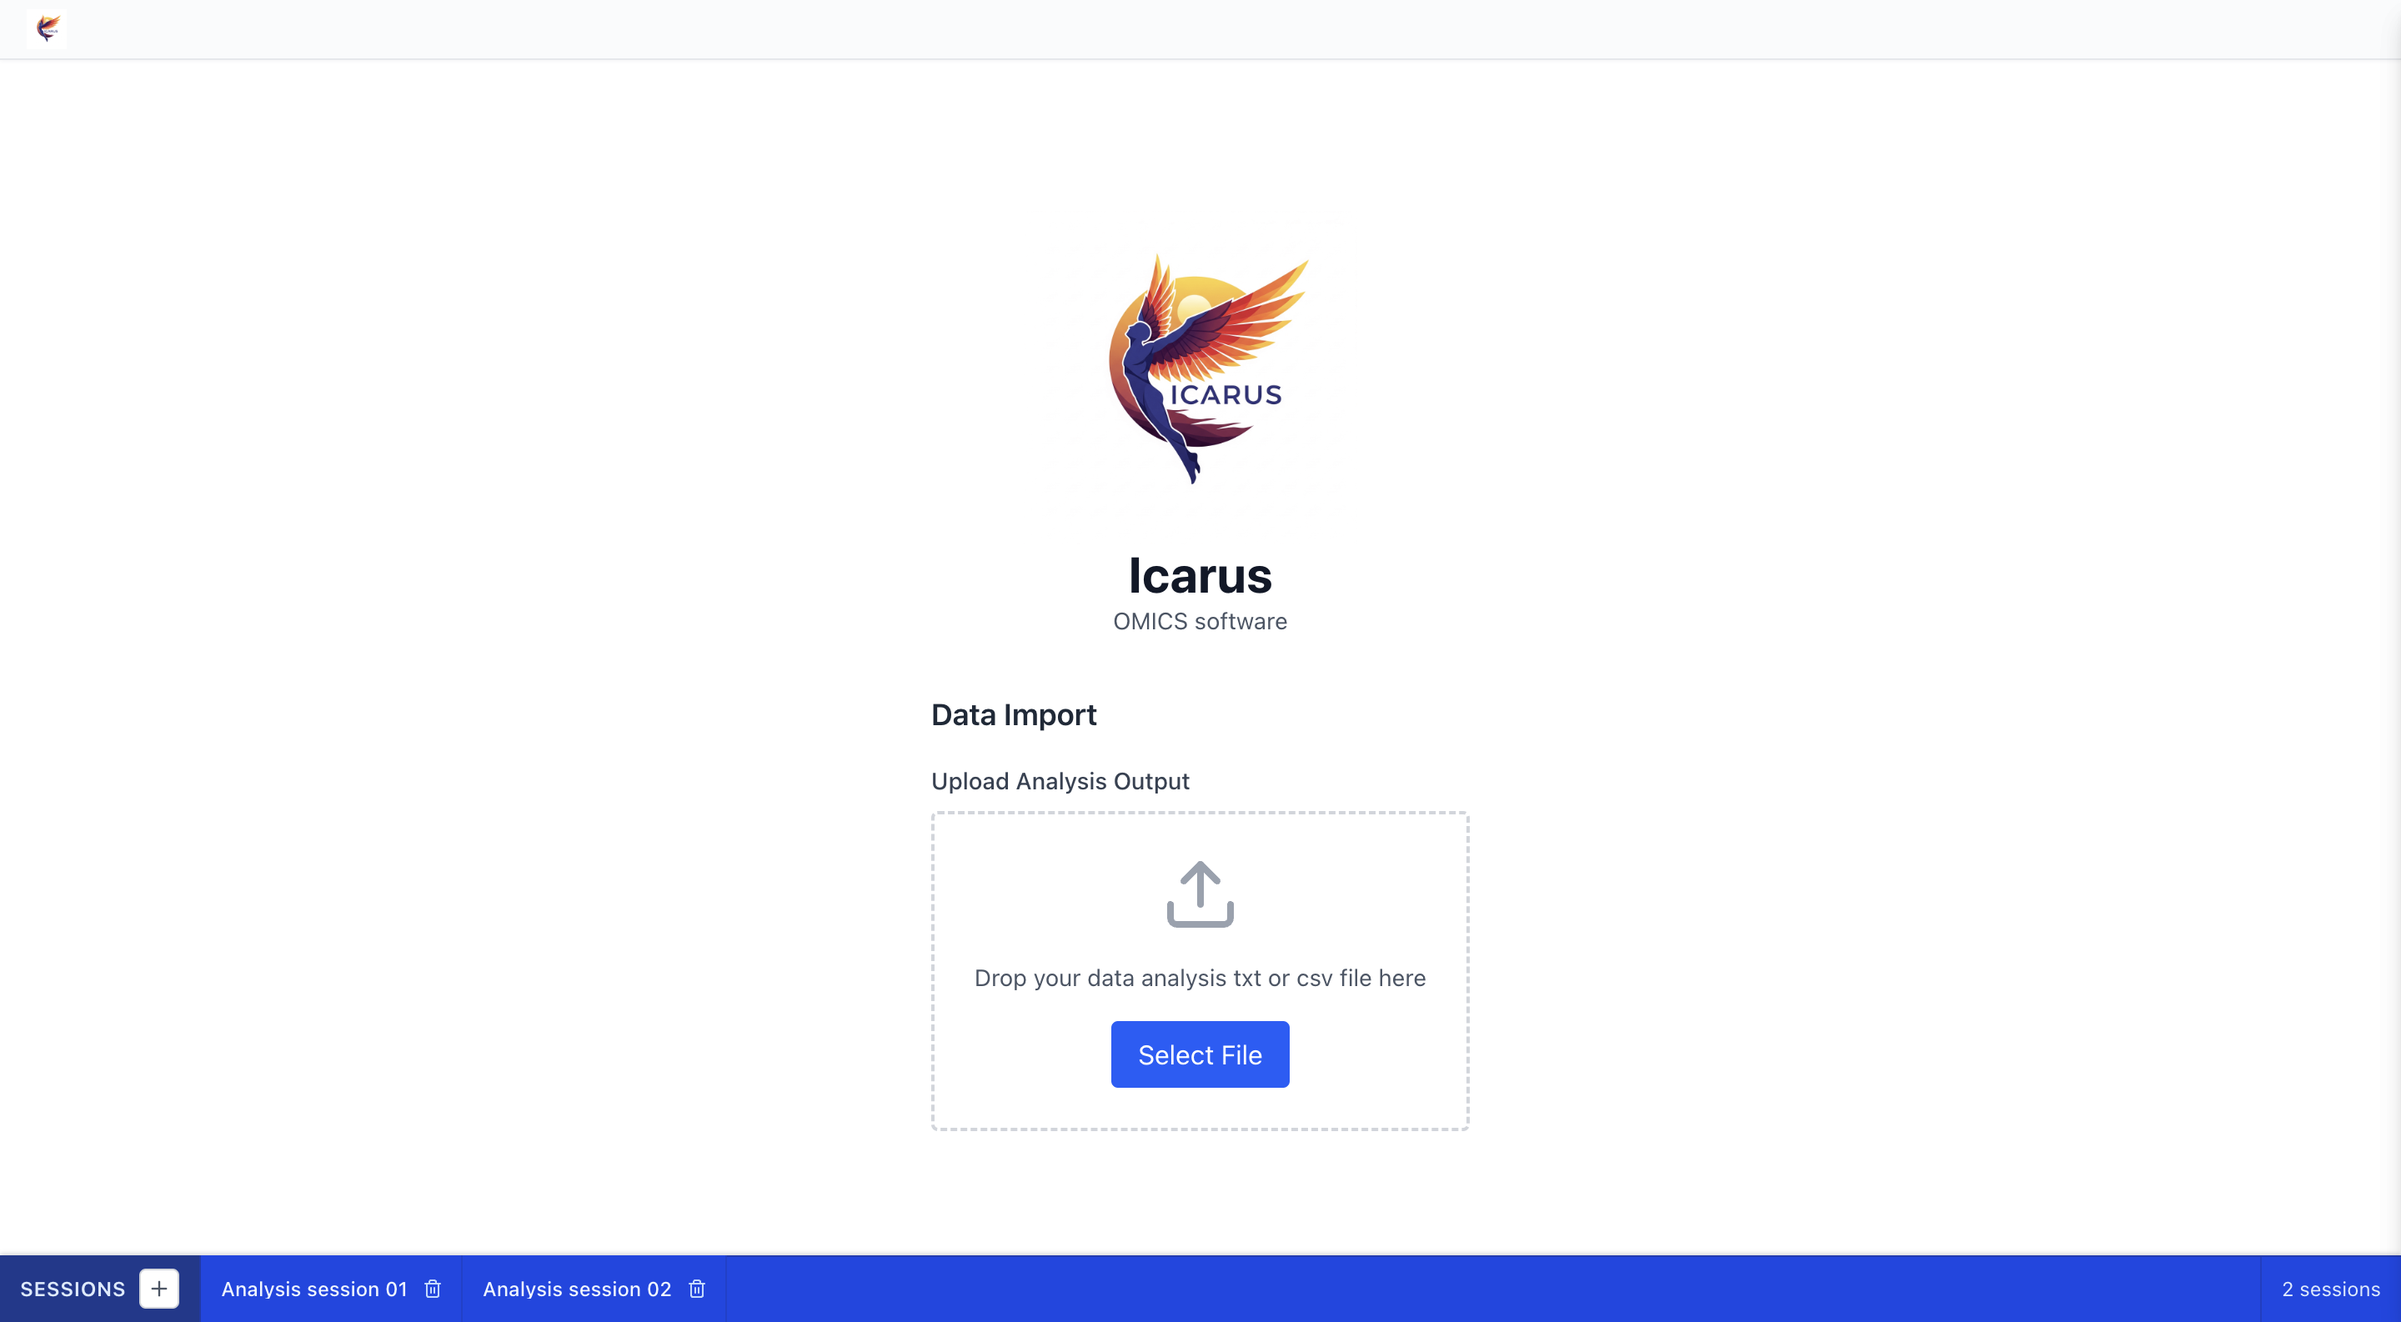
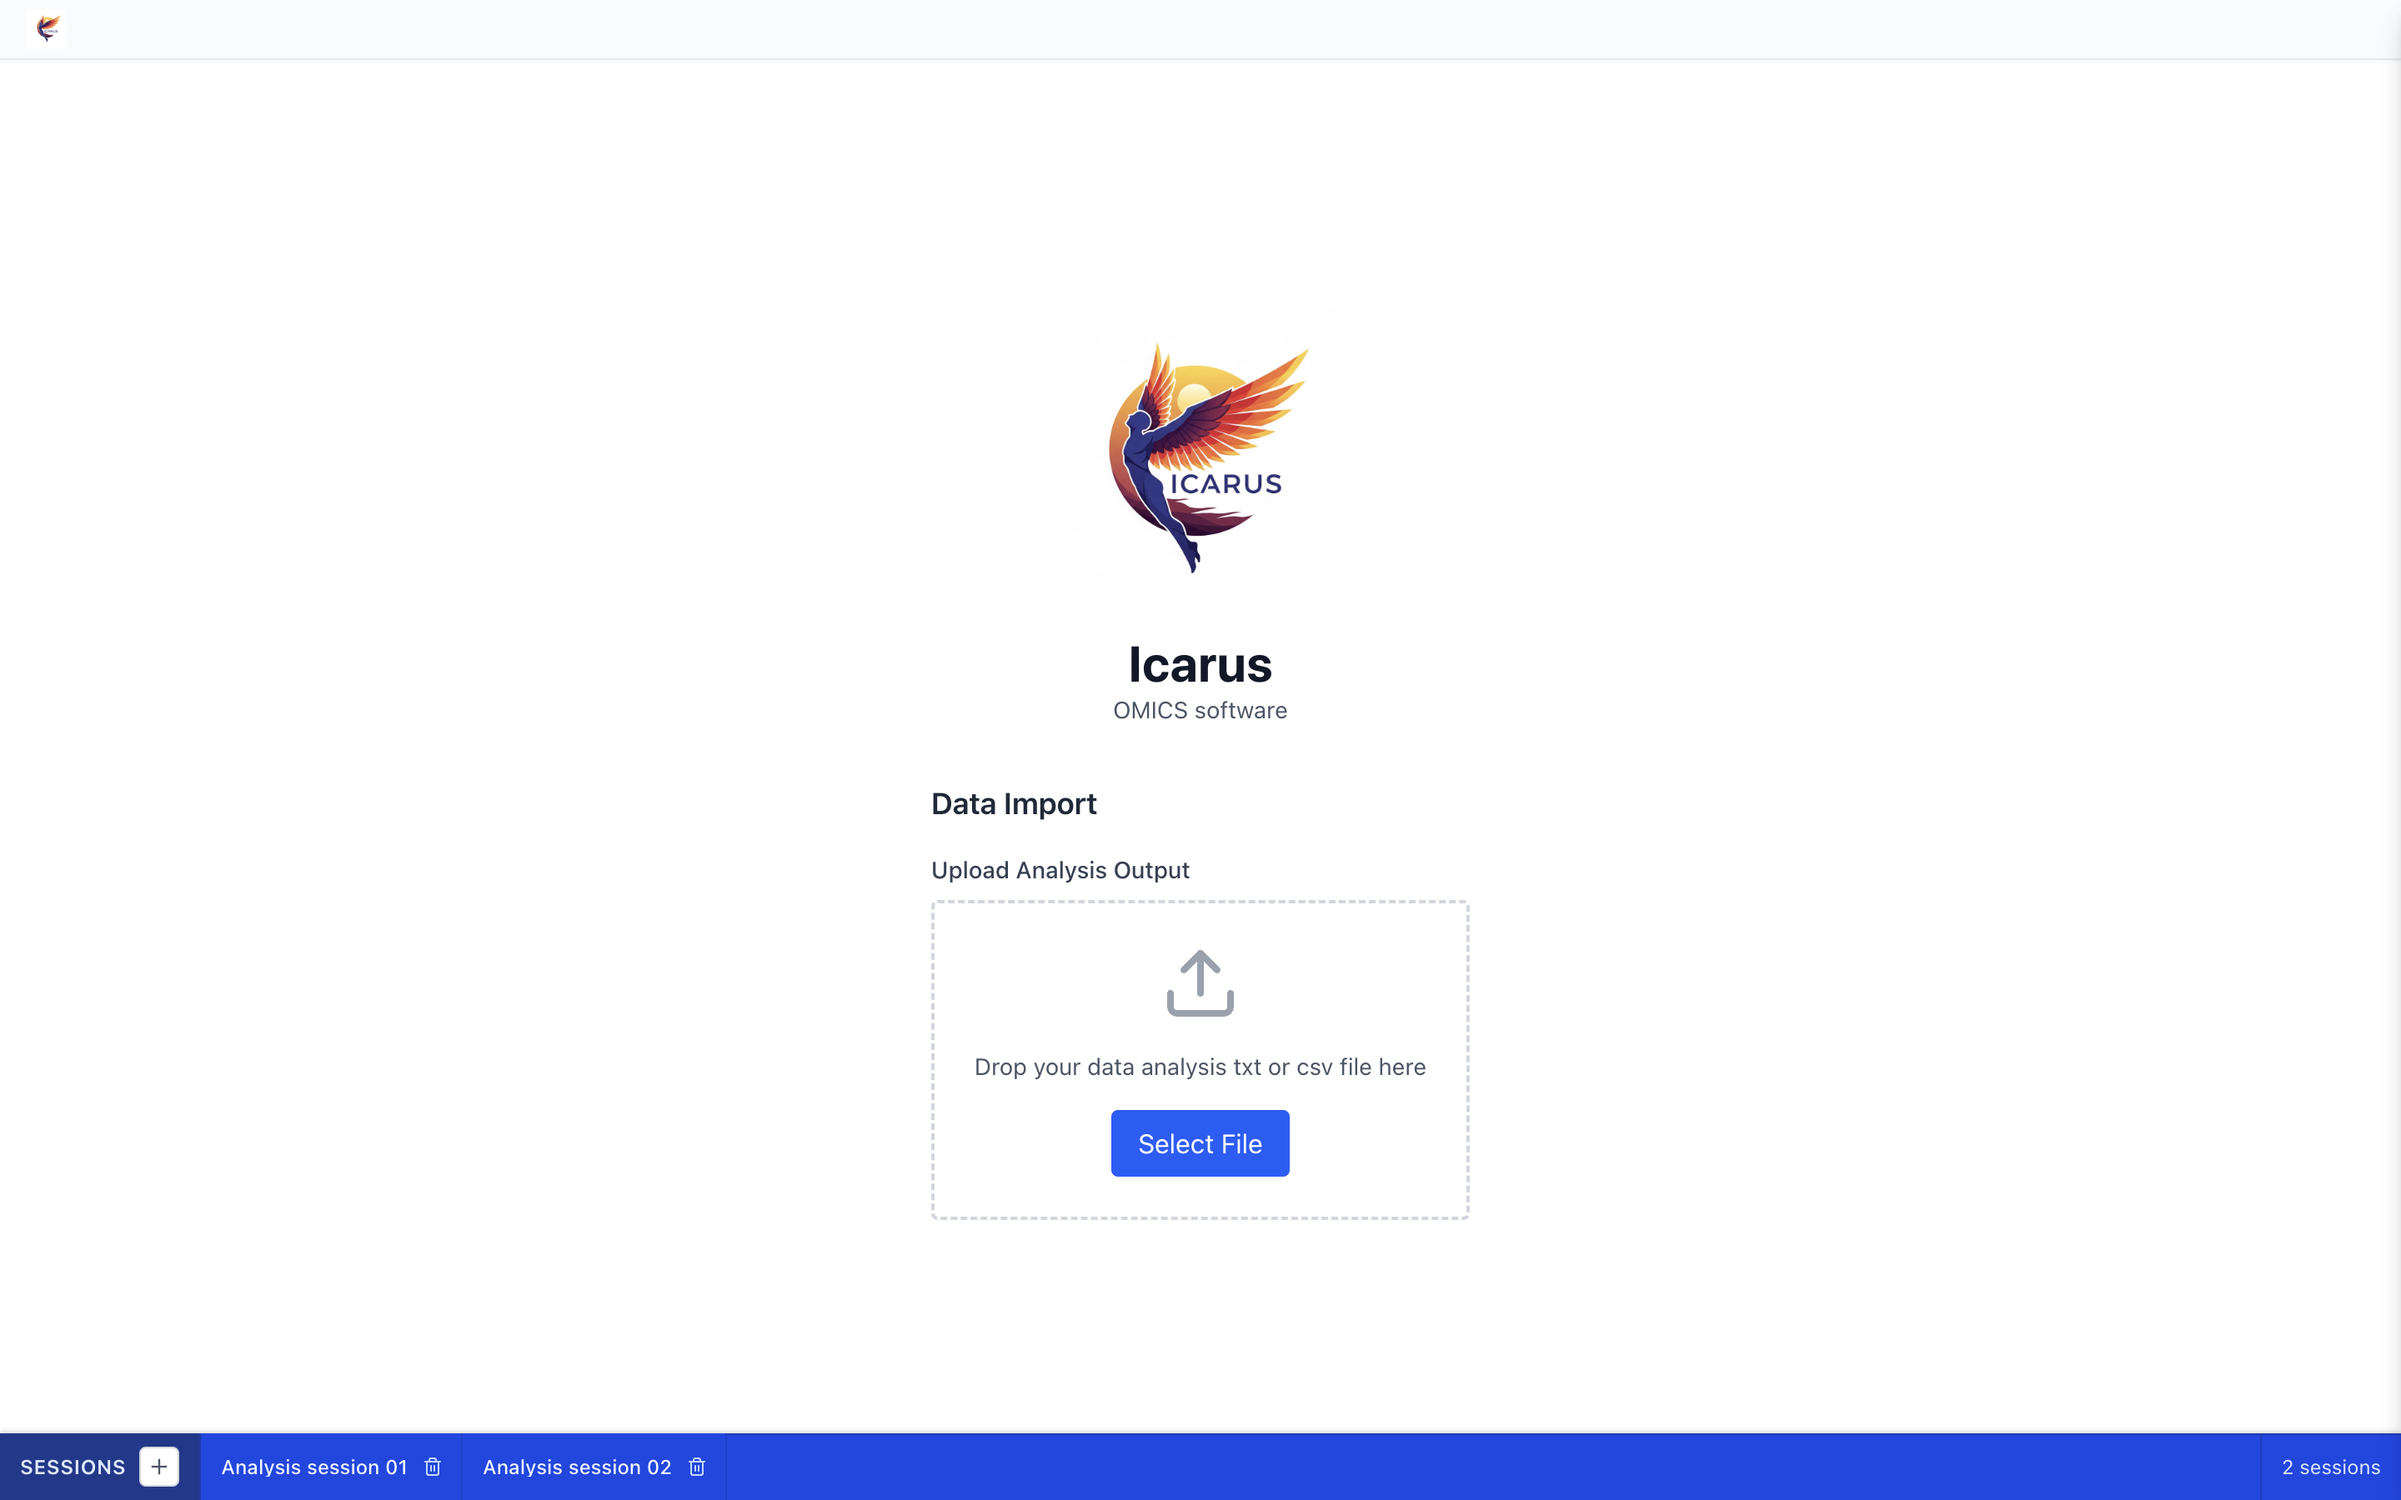
fix: retain native fullscreen alongside maximized startup

diff --git a/electron/main.ts b/electron/main.ts
@@ -40,6 +40,7 @@ function createWindow() {
   win = new BrowserWindow({
     icon: path.join(process.env.VITE_PUBLIC, "assets", "icarus.png"),
     resizable: true,
+    fullscreen: true,
     show: false,
     webPreferences: {
       preload: path.join(__dirname, "preload.mjs"),

diff --git a/docs/evidence/desktop-window-session-bar/README.md b/docs/evidence/desktop-window-session-bar/README.md
@@ -5,7 +5,7 @@ Verified on macOS with Electron 30 and the production renderer build, using a te
 - `npm run build:application`: passed (TypeScript and Vite renderer/main/preload builds).
 - ESLint on the three changed source files: passed.
 - `git diff --check`: passed.
-- Launch: `isMaximized()` returned true; native fullscreen was false. Window occupied the display work area (1440 × 822, with a one-pixel macOS rounding difference in window height).
+- Launch: native fullscreen is enabled (`isFullScreen()` returned true). The maximize call is also retained before showing the window.
 - Zero sessions: the main view correctly hides the session bar.
 - Two sessions: the scroll region ends exactly at the count, with no horizontal overflow.
 - Twenty sessions: the scroll region ends exactly at the count, can scroll to the last tab, and does not cause page overflow.
@@ -29,7 +29,7 @@ Twenty sessions scrolled to the end, dark mode:
 
 ## Manual reproduction
 
-1. Build and start Icarus on macOS. Confirm the window opens maximized with normal window controls.
+1. Build and start Icarus on macOS. Confirm the window opens in native fullscreen.
 2. Create two sessions. Confirm the bottom strip uses all the space between the Sessions header and session count.
 3. Create enough sessions to exceed that space. Scroll horizontally to reach the last tab; the count remains visible.
 4. Check both light and dark themes.
